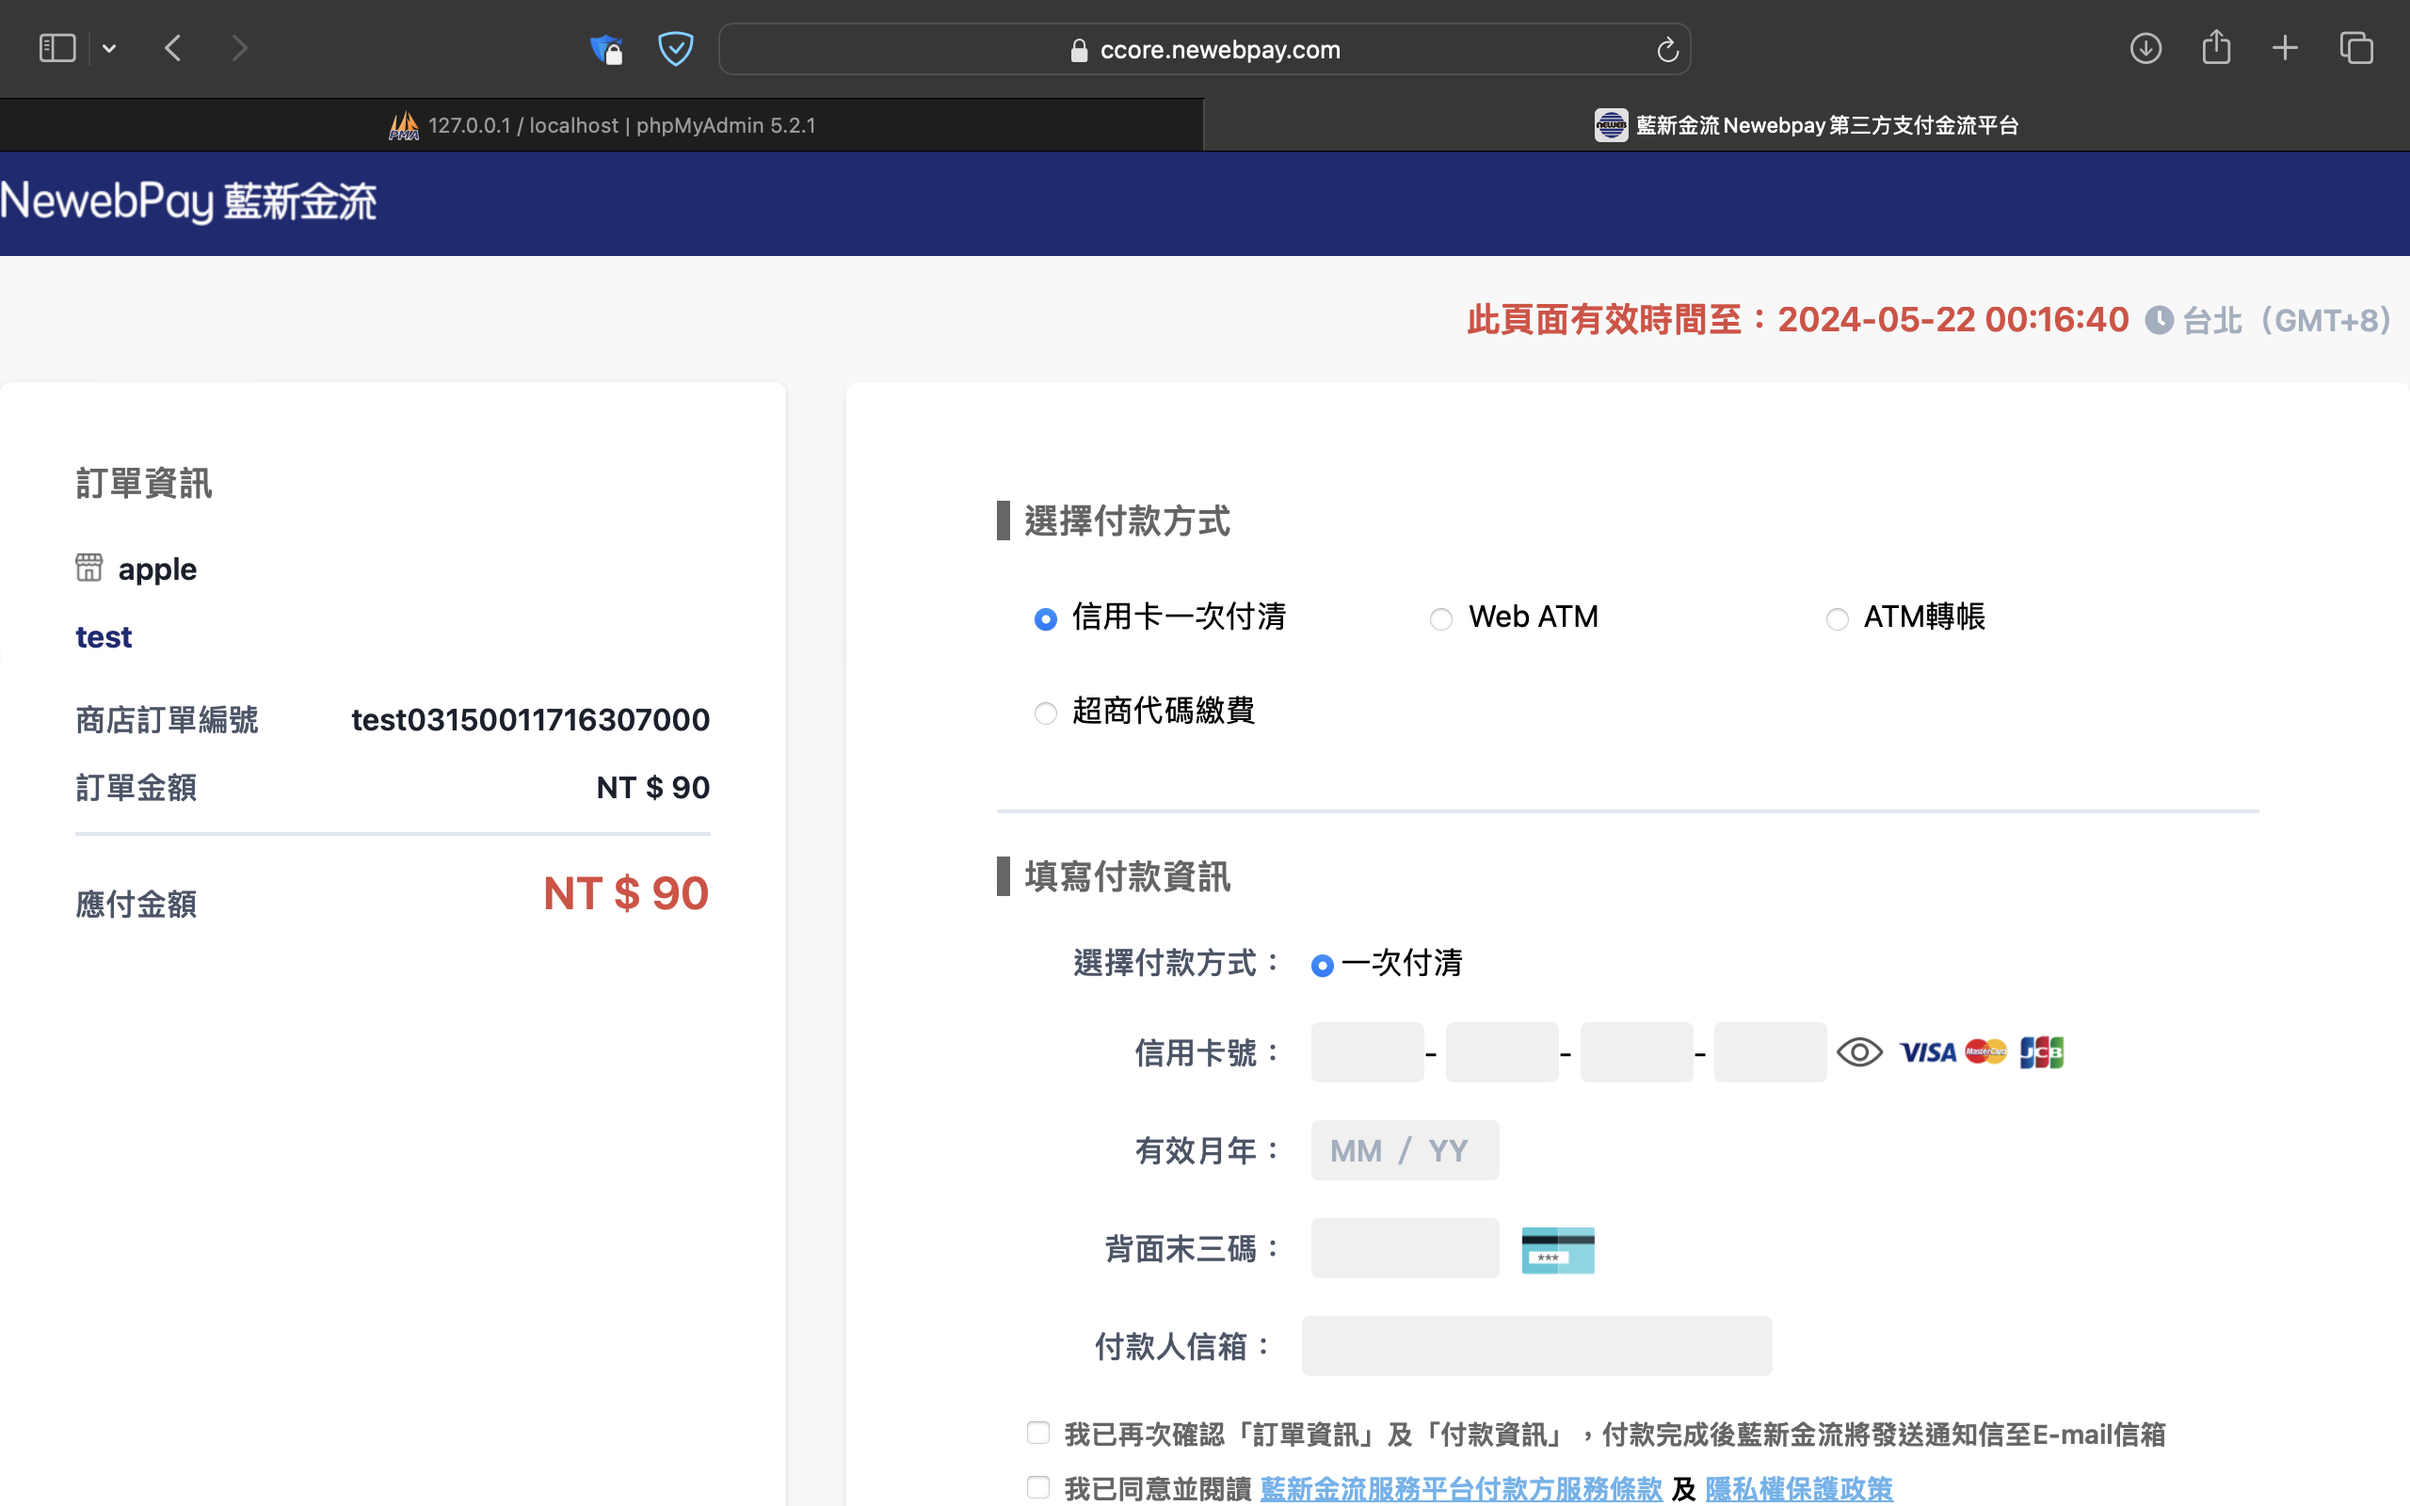
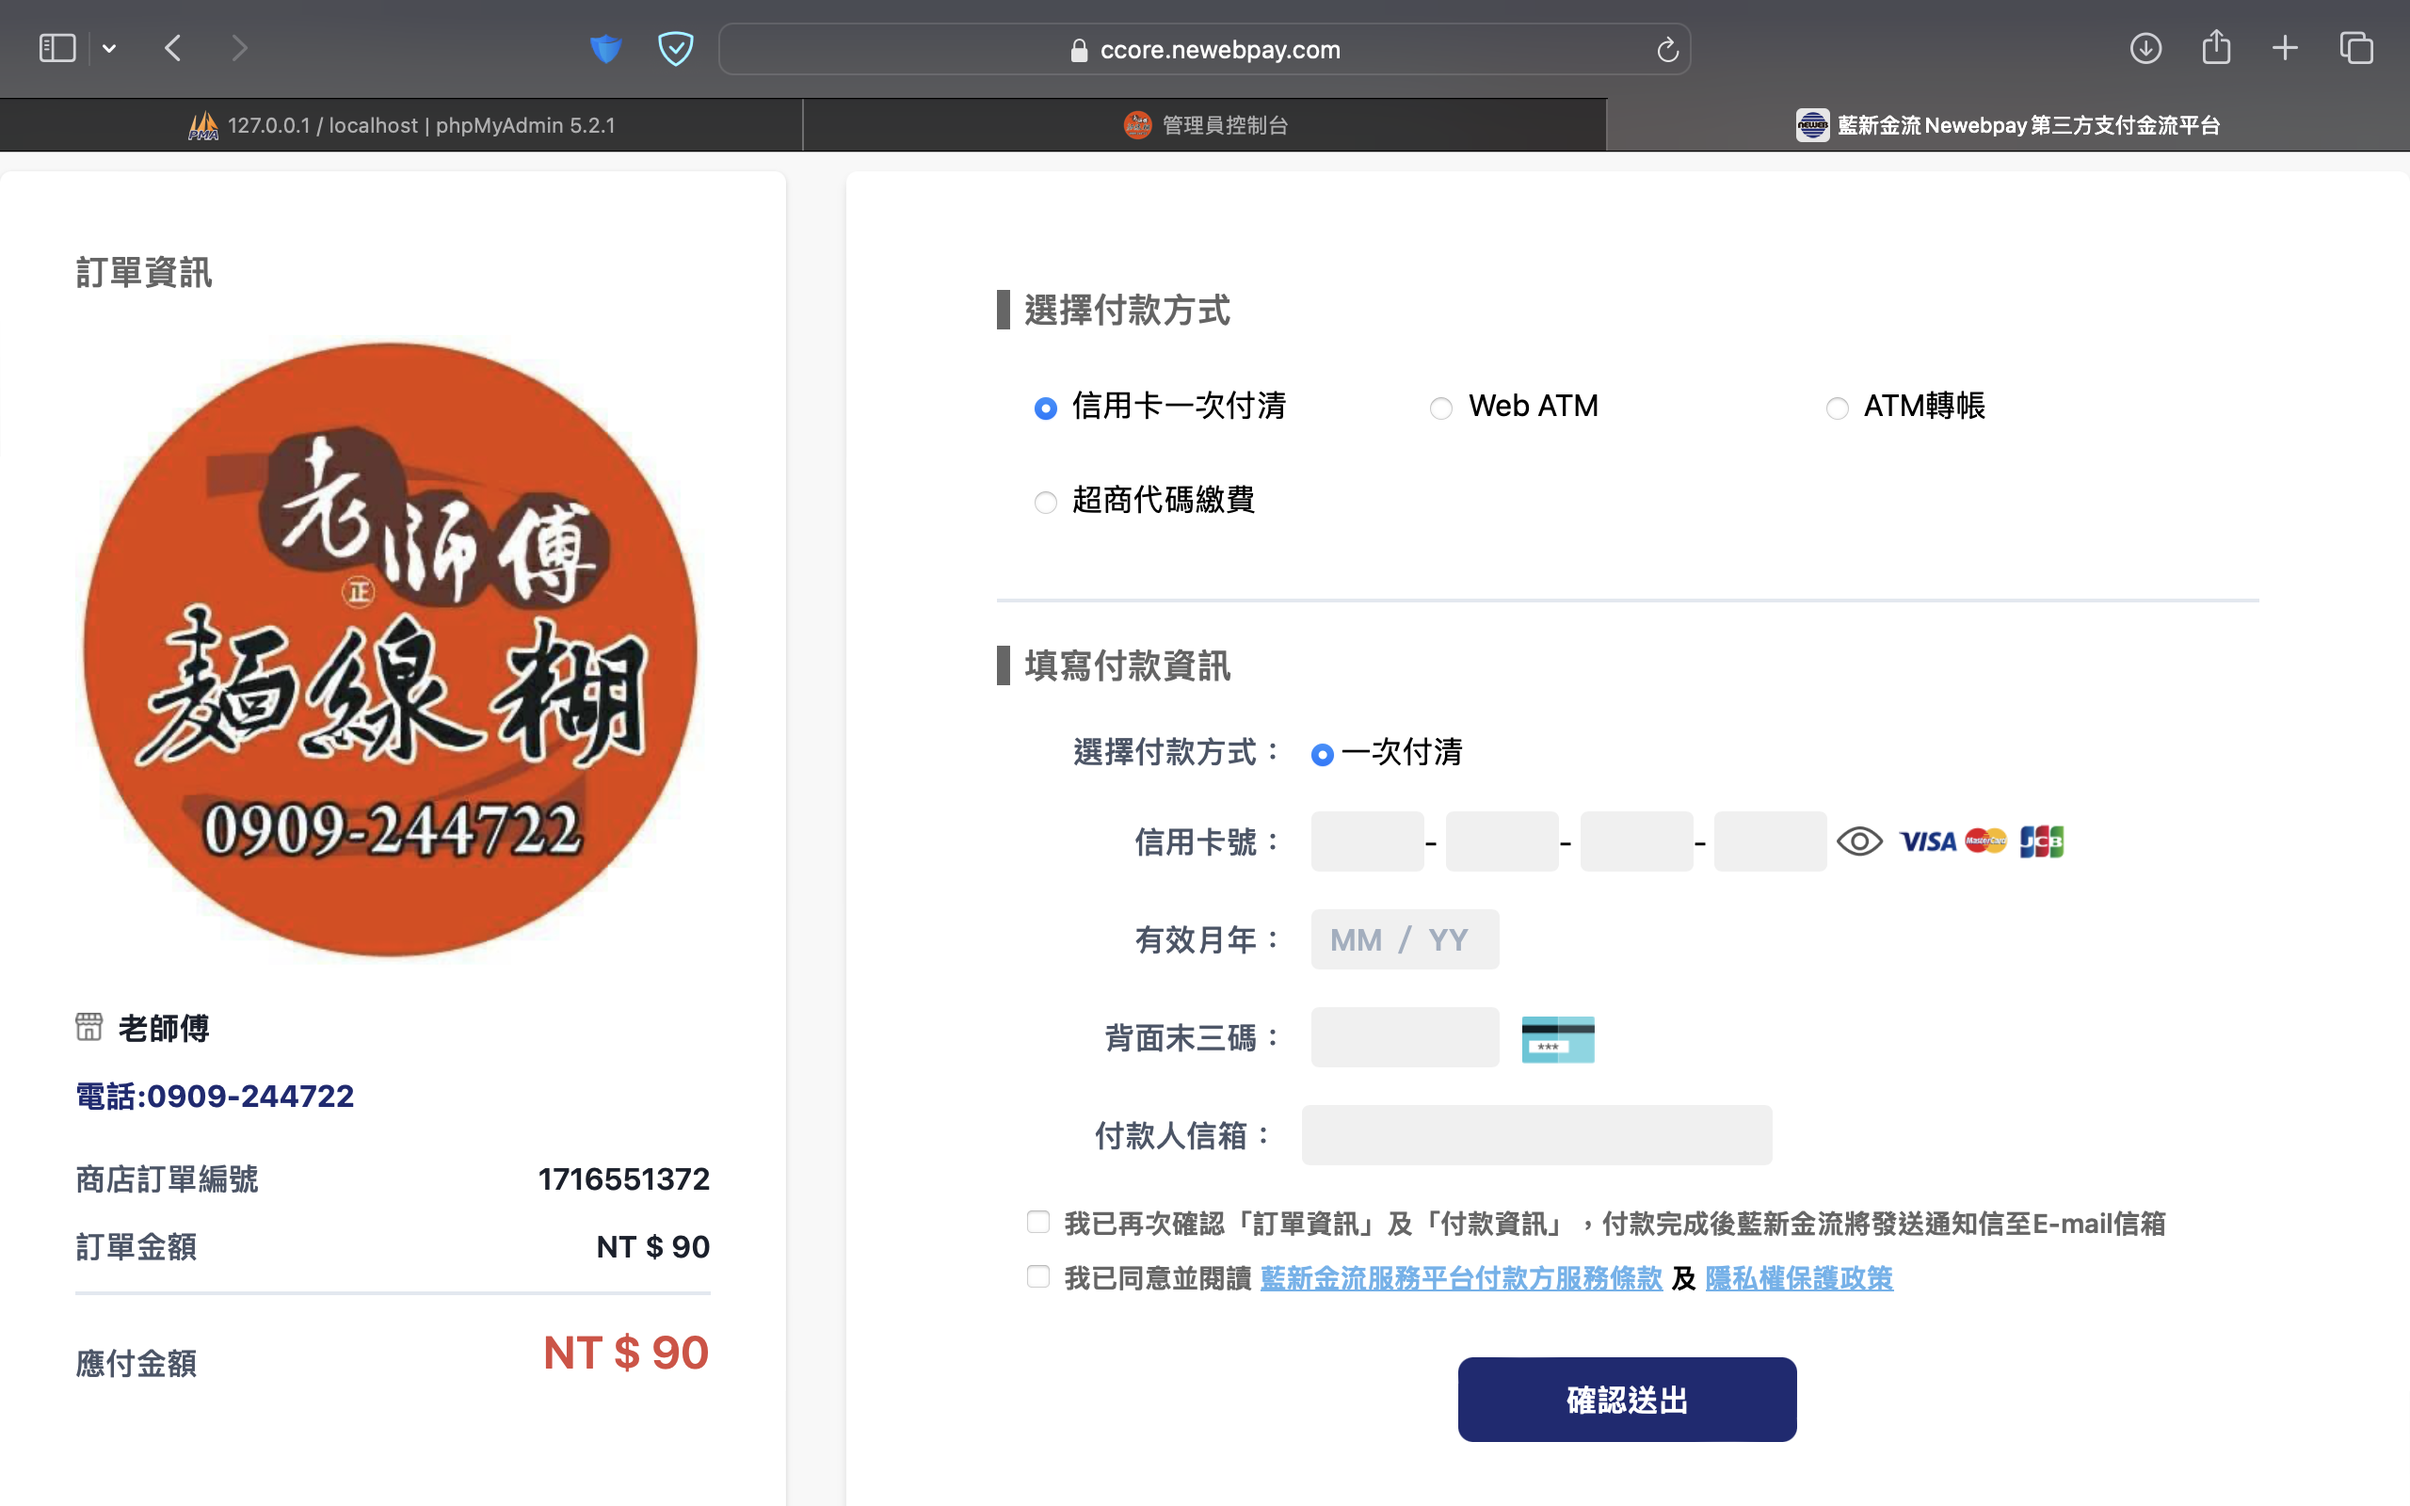
更新API

diff --git a/newebpay.php b/newebpay.php
@@ -1,7 +1,7 @@
 <?php
-$key = "iqK010mzZ8sp3BBQirZRiv1C2hukdPml";
-$iv = "CJrd3wMg3JqchS6P";
-$mid = "MS152078688";
+$key = "kjSGxqGE9f0zVDItAe2M0e3nBgCmfuCj";
+$iv = "Cjs6fgLxkoWuIuiP";
+$mid = "MS152585148";
 $totalAmount = $_POST['total_amount'];
 $data1 = http_build_query(array(
     'MerchantID' => $mid,
@@ -17,7 +17,7 @@ $data1 = http_build_query(array(
     'CREDIT' => '1',
     'LoginType' => '0',
     'InstFlag' => '0',
-    'ItemDesc' => 'test',
+    'ItemDesc' => '電話:0909-244722',
 ));
 
 $edata1 = bin2hex(openssl_encrypt($data1, "AES-256-CBC", $key, OPENSSL_RAW_DATA, $iv));

diff --git a/README.md b/README.md
@@ -70,12 +70,18 @@
 結帳後商品會從購物車刪除  
 ![image](https://github.com/Sumo0711/old-master/blob/main/directions/10.png)
 結帳串接金額至藍新科技的付款頁面
+![image](https://github.com/Sumo0711/old-master/blob/main/directions/19.png)
+成功付款！
 
 ## 結帳 API
 
 藍新科技測試區
 
 網站：https://cwww.newebpay.com/
+
+測試區帳號：oldmaster
+
+測試區密碼：123456aaa
 
 測試卡號：4000-2211-1111-1111
 
